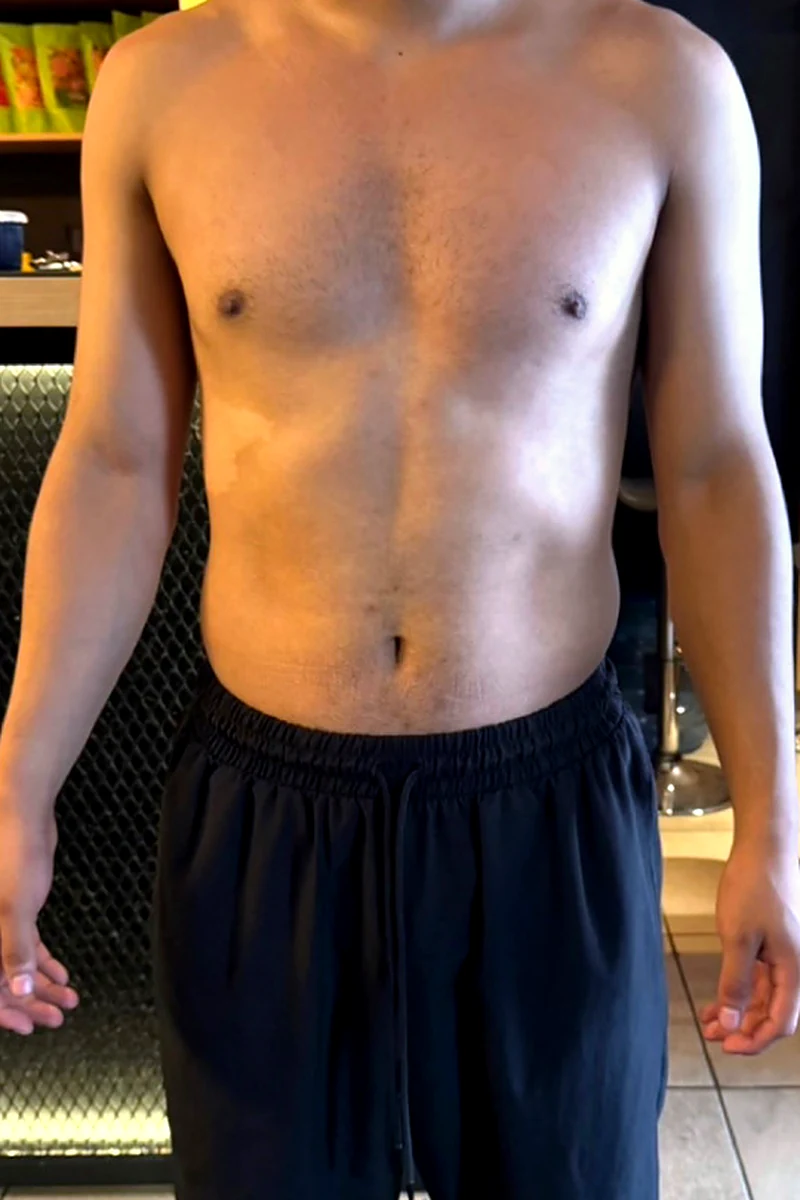
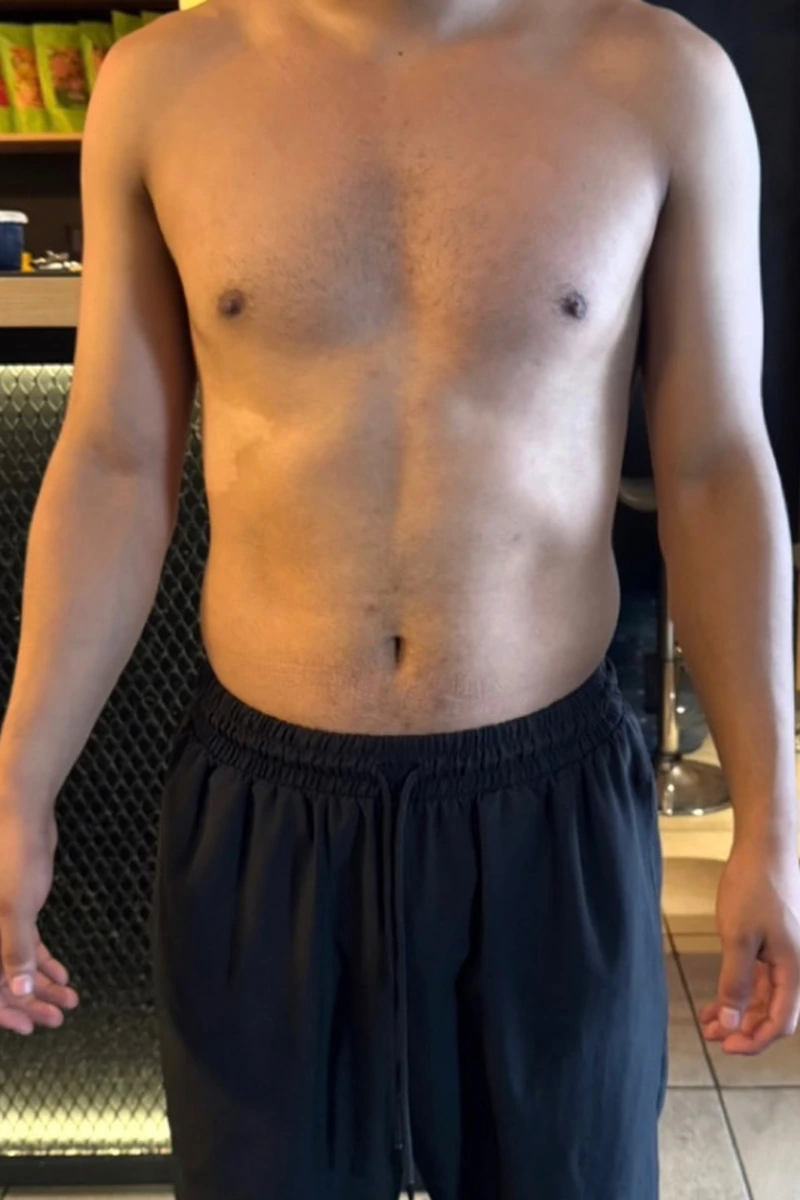
Use transformation photos with their original colors
Drop all color, contrast and sharpening adjustments; the panels are only
cropped and resized from the supplied photos, at high quality.

Claude-Session: https://claude.ai/code/session_018aXvGn6TJyX7pbDPTGbxZd

diff --git a/index.html b/index.html
@@ -109,74 +109,74 @@
         <ul class="changes">
           <li class="change reveal">
             <figure>
-              <span class="change__half"><img src="assets/img/cambios/cambio-01-a.webp?v=2" alt="Antes, cliente 1" width="800" height="1200" loading="lazy" decoding="async"><b>Antes</b></span>
-              <span class="change__half"><img src="assets/img/cambios/cambio-01-d.webp?v=2" alt="Después, cliente 1" width="800" height="1200" loading="lazy" decoding="async"><b>Después</b></span>
+              <span class="change__half"><img src="assets/img/cambios/cambio-01-a.webp?v=3" alt="Antes, cliente 1" width="800" height="1200" loading="lazy" decoding="async"><b>Antes</b></span>
+              <span class="change__half"><img src="assets/img/cambios/cambio-01-d.webp?v=3" alt="Después, cliente 1" width="800" height="1200" loading="lazy" decoding="async"><b>Después</b></span>
             </figure>
           </li>
           <li class="change reveal">
             <figure>
-              <span class="change__half"><img src="assets/img/cambios/cambio-02-a.webp?v=2" alt="Antes, cliente 2" width="800" height="1200" loading="lazy" decoding="async"><b>Antes</b></span>
-              <span class="change__half"><img src="assets/img/cambios/cambio-02-d.webp?v=2" alt="Después, cliente 2" width="800" height="1200" loading="lazy" decoding="async"><b>Después</b></span>
+              <span class="change__half"><img src="assets/img/cambios/cambio-02-a.webp?v=3" alt="Antes, cliente 2" width="800" height="1200" loading="lazy" decoding="async"><b>Antes</b></span>
+              <span class="change__half"><img src="assets/img/cambios/cambio-02-d.webp?v=3" alt="Después, cliente 2" width="800" height="1200" loading="lazy" decoding="async"><b>Después</b></span>
             </figure>
           </li>
           <li class="change reveal">
             <figure>
-              <span class="change__half"><img src="assets/img/cambios/cambio-03-a.webp?v=2" alt="Antes, cliente 3" width="800" height="1200" loading="lazy" decoding="async"><b>Antes</b></span>
-              <span class="change__half"><img src="assets/img/cambios/cambio-03-d.webp?v=2" alt="Después, cliente 3" width="800" height="1200" loading="lazy" decoding="async"><b>Después</b></span>
+              <span class="change__half"><img src="assets/img/cambios/cambio-03-a.webp?v=3" alt="Antes, cliente 3" width="800" height="1200" loading="lazy" decoding="async"><b>Antes</b></span>
+              <span class="change__half"><img src="assets/img/cambios/cambio-03-d.webp?v=3" alt="Después, cliente 3" width="800" height="1200" loading="lazy" decoding="async"><b>Después</b></span>
             </figure>
           </li>
           <li class="change reveal">
             <figure>
-              <span class="change__half"><img src="assets/img/cambios/cambio-04-a.webp?v=2" alt="Antes, cliente 4" width="800" height="1200" loading="lazy" decoding="async"><b>Antes</b></span>
-              <span class="change__half"><img src="assets/img/cambios/cambio-04-d.webp?v=2" alt="Después, cliente 4" width="800" height="1200" loading="lazy" decoding="async"><b>Después</b></span>
+              <span class="change__half"><img src="assets/img/cambios/cambio-04-a.webp?v=3" alt="Antes, cliente 4" width="800" height="1200" loading="lazy" decoding="async"><b>Antes</b></span>
+              <span class="change__half"><img src="assets/img/cambios/cambio-04-d.webp?v=3" alt="Después, cliente 4" width="800" height="1200" loading="lazy" decoding="async"><b>Después</b></span>
             </figure>
           </li>
           <li class="change reveal">
             <figure>
-              <span class="change__half"><img src="assets/img/cambios/cambio-05-a.webp?v=2" alt="Antes, cliente 5" width="800" height="1200" loading="lazy" decoding="async"><b>Antes</b></span>
-              <span class="change__half"><img src="assets/img/cambios/cambio-05-d.webp?v=2" alt="Después, cliente 5" width="800" height="1200" loading="lazy" decoding="async"><b>Después</b></span>
+              <span class="change__half"><img src="assets/img/cambios/cambio-05-a.webp?v=3" alt="Antes, cliente 5" width="800" height="1200" loading="lazy" decoding="async"><b>Antes</b></span>
+              <span class="change__half"><img src="assets/img/cambios/cambio-05-d.webp?v=3" alt="Después, cliente 5" width="800" height="1200" loading="lazy" decoding="async"><b>Después</b></span>
             </figure>
           </li>
           <li class="change reveal">
             <figure>
-              <span class="change__half"><img src="assets/img/cambios/cambio-06-a.webp?v=2" alt="Antes, cliente 6" width="800" height="1200" loading="lazy" decoding="async"><b>Antes</b></span>
-              <span class="change__half"><img src="assets/img/cambios/cambio-06-d.webp?v=2" alt="Después, cliente 6" width="800" height="1200" loading="lazy" decoding="async"><b>Después</b></span>
+              <span class="change__half"><img src="assets/img/cambios/cambio-06-a.webp?v=3" alt="Antes, cliente 6" width="800" height="1200" loading="lazy" decoding="async"><b>Antes</b></span>
+              <span class="change__half"><img src="assets/img/cambios/cambio-06-d.webp?v=3" alt="Después, cliente 6" width="800" height="1200" loading="lazy" decoding="async"><b>Después</b></span>
             </figure>
           </li>
           <li class="change reveal" data-more hidden>
             <figure>
-              <span class="change__half"><img src="assets/img/cambios/cambio-07-a.webp?v=2" alt="Antes, cliente 7" width="800" height="1200" loading="lazy" decoding="async"><b>Antes</b></span>
-              <span class="change__half"><img src="assets/img/cambios/cambio-07-d.webp?v=2" alt="Después, cliente 7" width="800" height="1200" loading="lazy" decoding="async"><b>Después</b></span>
+              <span class="change__half"><img src="assets/img/cambios/cambio-07-a.webp?v=3" alt="Antes, cliente 7" width="800" height="1200" loading="lazy" decoding="async"><b>Antes</b></span>
+              <span class="change__half"><img src="assets/img/cambios/cambio-07-d.webp?v=3" alt="Después, cliente 7" width="800" height="1200" loading="lazy" decoding="async"><b>Después</b></span>
             </figure>
           </li>
           <li class="change reveal" data-more hidden>
             <figure>
-              <span class="change__half"><img src="assets/img/cambios/cambio-08-a.webp?v=2" alt="Antes, cliente 8" width="800" height="1200" loading="lazy" decoding="async"><b>Antes</b></span>
-              <span class="change__half"><img src="assets/img/cambios/cambio-08-d.webp?v=2" alt="Después, cliente 8" width="800" height="1200" loading="lazy" decoding="async"><b>Después</b></span>
+              <span class="change__half"><img src="assets/img/cambios/cambio-08-a.webp?v=3" alt="Antes, cliente 8" width="800" height="1200" loading="lazy" decoding="async"><b>Antes</b></span>
+              <span class="change__half"><img src="assets/img/cambios/cambio-08-d.webp?v=3" alt="Después, cliente 8" width="800" height="1200" loading="lazy" decoding="async"><b>Después</b></span>
             </figure>
           </li>
           <li class="change reveal" data-more hidden>
             <figure>
-              <span class="change__half"><img src="assets/img/cambios/cambio-09-a.webp?v=2" alt="Antes, cliente 9" width="800" height="1200" loading="lazy" decoding="async"><b>Antes</b></span>
-              <span class="change__half"><img src="assets/img/cambios/cambio-09-d.webp?v=2" alt="Después, cliente 9" width="800" height="1200" loading="lazy" decoding="async"><b>Después</b></span>
+              <span class="change__half"><img src="assets/img/cambios/cambio-09-a.webp?v=3" alt="Antes, cliente 9" width="800" height="1200" loading="lazy" decoding="async"><b>Antes</b></span>
+              <span class="change__half"><img src="assets/img/cambios/cambio-09-d.webp?v=3" alt="Después, cliente 9" width="800" height="1200" loading="lazy" decoding="async"><b>Después</b></span>
             </figure>
           </li>
           <li class="change reveal" data-more hidden>
             <figure>
-              <span class="change__half"><img src="assets/img/cambios/cambio-10-a.webp?v=2" alt="Antes, cliente 10" width="800" height="1200" loading="lazy" decoding="async"><b>Antes</b></span>
-              <span class="change__half"><img src="assets/img/cambios/cambio-10-d.webp?v=2" alt="Después, cliente 10" width="800" height="1200" loading="lazy" decoding="async"><b>Después</b></span>
+              <span class="change__half"><img src="assets/img/cambios/cambio-10-a.webp?v=3" alt="Antes, cliente 10" width="800" height="1200" loading="lazy" decoding="async"><b>Antes</b></span>
+              <span class="change__half"><img src="assets/img/cambios/cambio-10-d.webp?v=3" alt="Después, cliente 10" width="800" height="1200" loading="lazy" decoding="async"><b>Después</b></span>
             </figure>
           </li>
           <li class="change reveal" data-more hidden>
             <figure>
-              <span class="change__half"><img src="assets/img/cambios/cambio-11-a.webp?v=2" alt="Antes, cliente 11" width="800" height="1200" loading="lazy" decoding="async"><b>Antes</b></span>
-              <span class="change__half"><img src="assets/img/cambios/cambio-11-d.webp?v=2" alt="Después, cliente 11" width="800" height="1200" loading="lazy" decoding="async"><b>Después</b></span>
+              <span class="change__half"><img src="assets/img/cambios/cambio-11-a.webp?v=3" alt="Antes, cliente 11" width="800" height="1200" loading="lazy" decoding="async"><b>Antes</b></span>
+              <span class="change__half"><img src="assets/img/cambios/cambio-11-d.webp?v=3" alt="Después, cliente 11" width="800" height="1200" loading="lazy" decoding="async"><b>Después</b></span>
             </figure>
           </li>
           <li class="change reveal" data-more hidden>
             <figure>
-              <span class="change__half"><img src="assets/img/cambios/cambio-12-a.webp?v=2" alt="Antes, cliente 12" width="800" height="1200" loading="lazy" decoding="async"><b>Antes</b></span>
-              <span class="change__half"><img src="assets/img/cambios/cambio-12-d.webp?v=2" alt="Después, cliente 12" width="800" height="1200" loading="lazy" decoding="async"><b>Después</b></span>
+              <span class="change__half"><img src="assets/img/cambios/cambio-12-a.webp?v=3" alt="Antes, cliente 12" width="800" height="1200" loading="lazy" decoding="async"><b>Antes</b></span>
+              <span class="change__half"><img src="assets/img/cambios/cambio-12-d.webp?v=3" alt="Después, cliente 12" width="800" height="1200" loading="lazy" decoding="async"><b>Después</b></span>
             </figure>
           </li>
         </ul>
